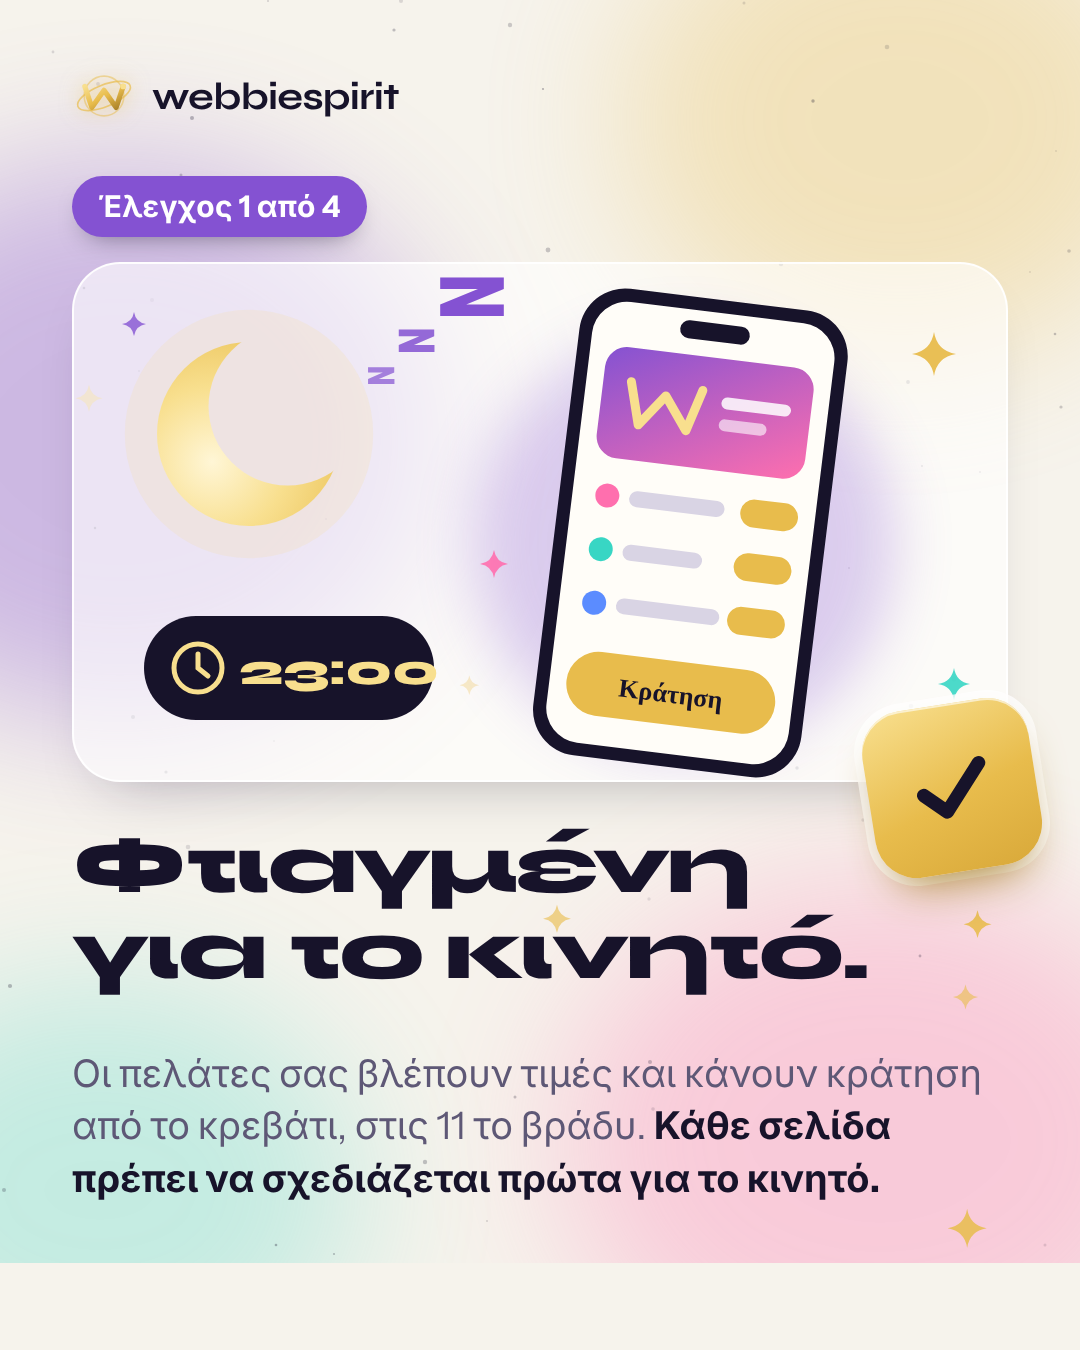
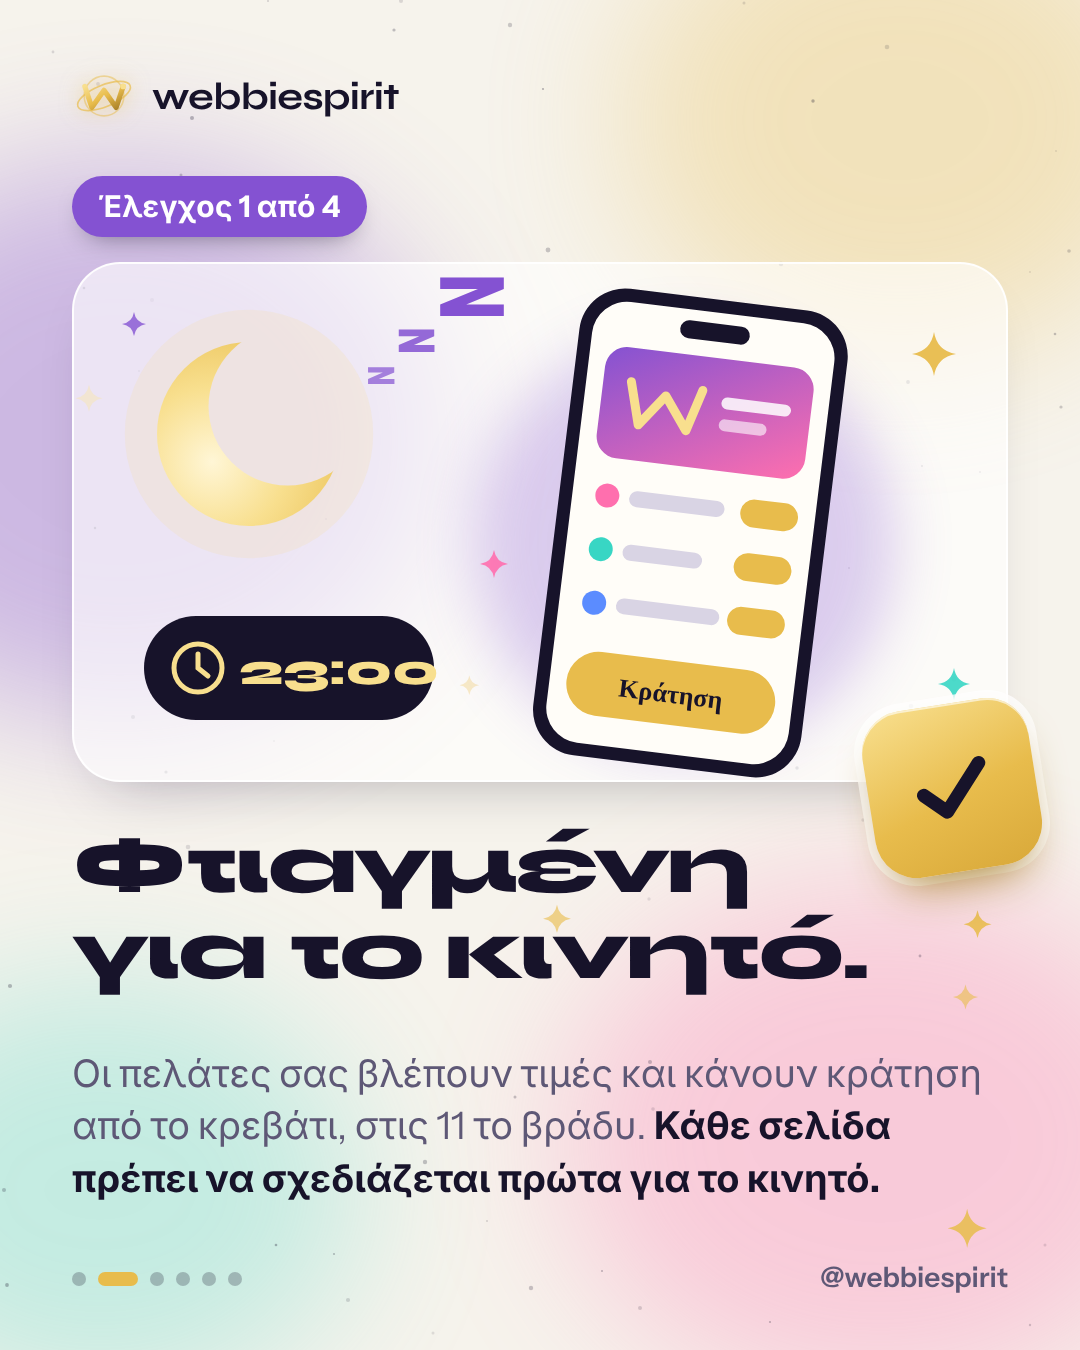
Work in progress: refine the 11pm test carousel
Claude-Session: https://claude.ai/code/session_013khpwSVpV2RAcs2wosV2u8

Changed region(s): [[0.5806, 0.9333, 1.0, 1.0], [0.0, 0.9333, 0.3056, 1.0]]

diff --git a/social/posts/p2_eleven_pm_test.py b/social/posts/p2_eleven_pm_test.py
@@ -5,7 +5,16 @@
 
 Writes out/en/2-the-11pm-test-<n>.png and out/el/2-the-11pm-test-<n>.png.
 """
+import glob
+import os
 from pathlib import Path
+
+# kit.render with the full Chrome binary screenshots a 1080x1263 viewport (the bottom 87px, with the
+# carousel dots and @webbiespirit, come out blank). The headless shell renders the true 1080x1350 viewport.
+if 'CHROME' not in os.environ:
+    _shell = sorted(glob.glob('/opt/pw-browsers/chromium_headless_shell-*/chrome-linux/headless_shell'))
+    if _shell:
+        os.environ['CHROME'] = _shell[-1]
 
 from kit import (E, GOLD, GOLD_2, GOLD_DEEP, INK, IVORY, ROSE, SKYBLUE, TEAL, VIOLET, Slide, render, sparkle)
 
